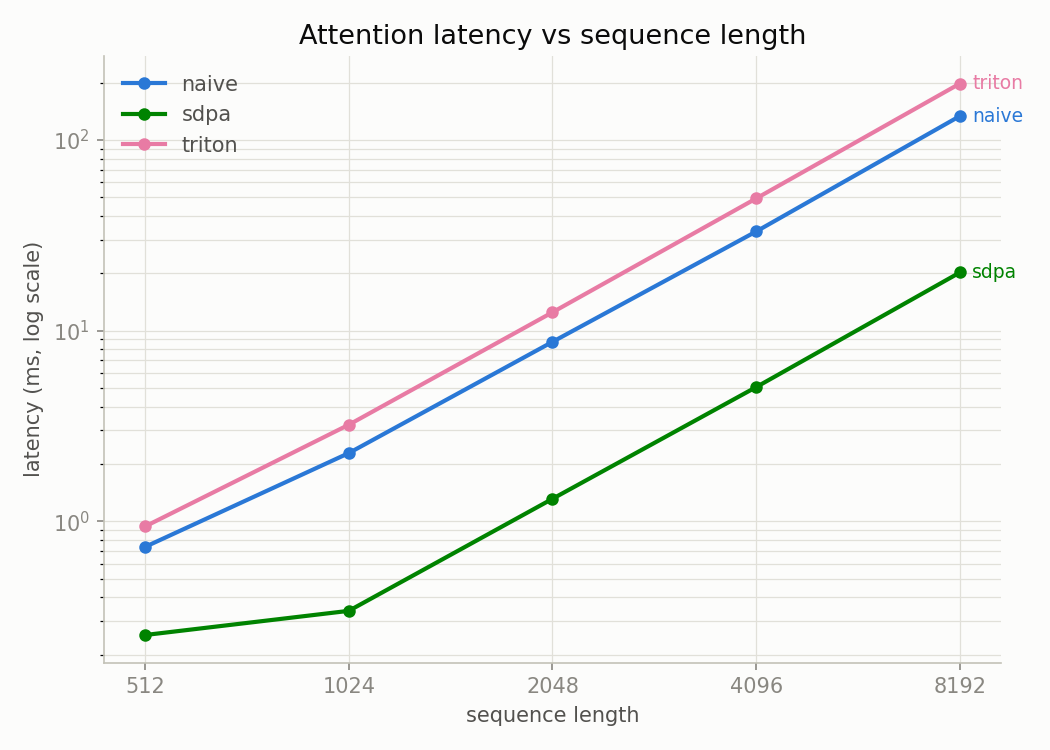
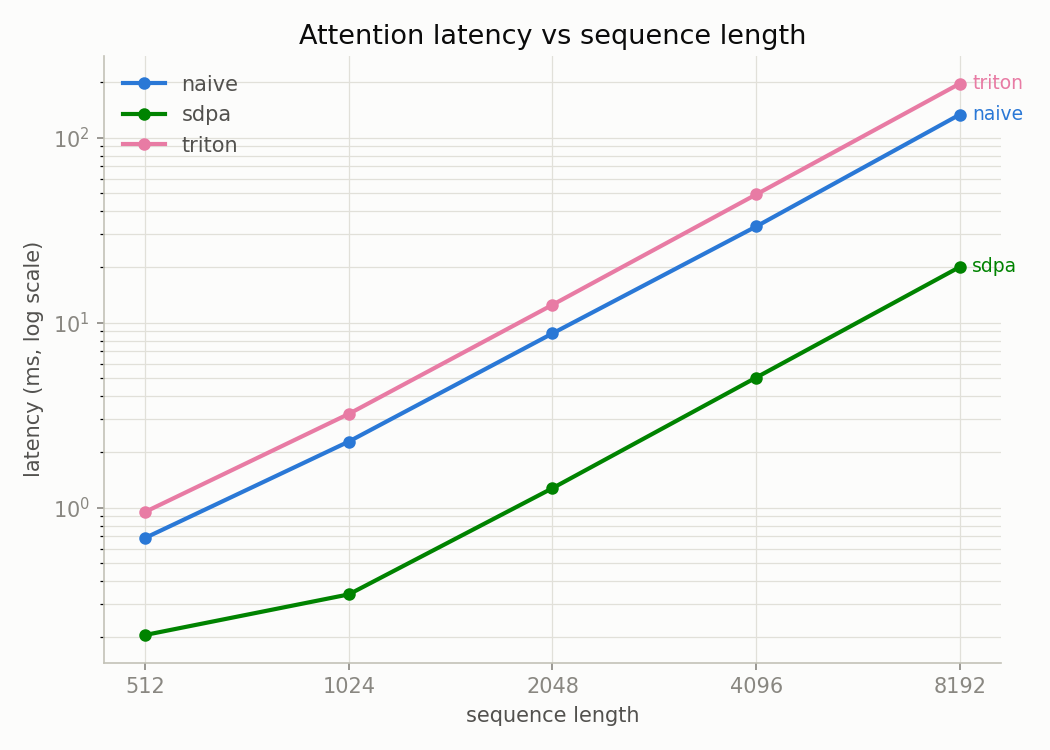
Regenerate plots with label-collision fix

Changed region(s): [[0.061, 0.1227, 0.9752, 0.8587], [0.9143, 0.1227, 0.9752, 0.184], [0.061, 0.1533, 0.0914, 0.184]]

diff --git a/results/benchmarks.md b/results/benchmarks.md
@@ -4,18 +4,18 @@ Phase 2 sequence-length sweep. batch=2, heads=8, head_dim=64, fp16, non-causal (
 
 | seq_len | impl | latency (ms) | TFLOP/s | peak mem (GB) |
 |---:|---|---:|---:|---:|
-| 512 | naive | 0.736 | 1.46 | 0.050 |
-| 512 | sdpa | 0.254 | 4.23 | 0.012 |
-| 512 | triton | 0.942 | 1.14 | 0.012 |
-| 1024 | naive | 2.283 | 1.88 | 0.170 |
-| 1024 | sdpa | 0.340 | 12.63 | 0.016 |
-| 1024 | triton | 3.215 | 1.34 | 0.016 |
-| 2048 | naive | 8.745 | 1.96 | 0.645 |
-| 2048 | sdpa | 1.315 | 13.07 | 0.024 |
-| 2048 | triton | 12.497 | 1.37 | 0.024 |
-| 4096 | naive | 33.145 | 2.07 | 2.531 |
-| 4096 | sdpa | 5.065 | 13.57 | 0.039 |
-| 4096 | triton | 49.394 | 1.39 | 0.039 |
-| 8192 | naive | 133.539 | 2.06 | 10.055 |
-| 8192 | sdpa | 20.210 | 13.60 | 0.070 |
-| 8192 | triton | 197.677 | 1.39 | 0.070 |
+| 512 | naive | 0.686 | 1.57 | 0.050 |
+| 512 | sdpa | 0.205 | 5.24 | 0.012 |
+| 512 | triton | 0.948 | 1.13 | 0.012 |
+| 1024 | naive | 2.277 | 1.89 | 0.170 |
+| 1024 | sdpa | 0.340 | 12.65 | 0.016 |
+| 1024 | triton | 3.213 | 1.34 | 0.016 |
+| 2048 | naive | 8.752 | 1.96 | 0.645 |
+| 2048 | sdpa | 1.274 | 13.48 | 0.024 |
+| 2048 | triton | 12.498 | 1.37 | 0.024 |
+| 4096 | naive | 33.141 | 2.07 | 2.531 |
+| 4096 | sdpa | 5.052 | 13.60 | 0.039 |
+| 4096 | triton | 49.377 | 1.39 | 0.039 |
+| 8192 | naive | 133.603 | 2.06 | 10.055 |
+| 8192 | sdpa | 20.038 | 13.72 | 0.070 |
+| 8192 | triton | 196.397 | 1.40 | 0.070 |
